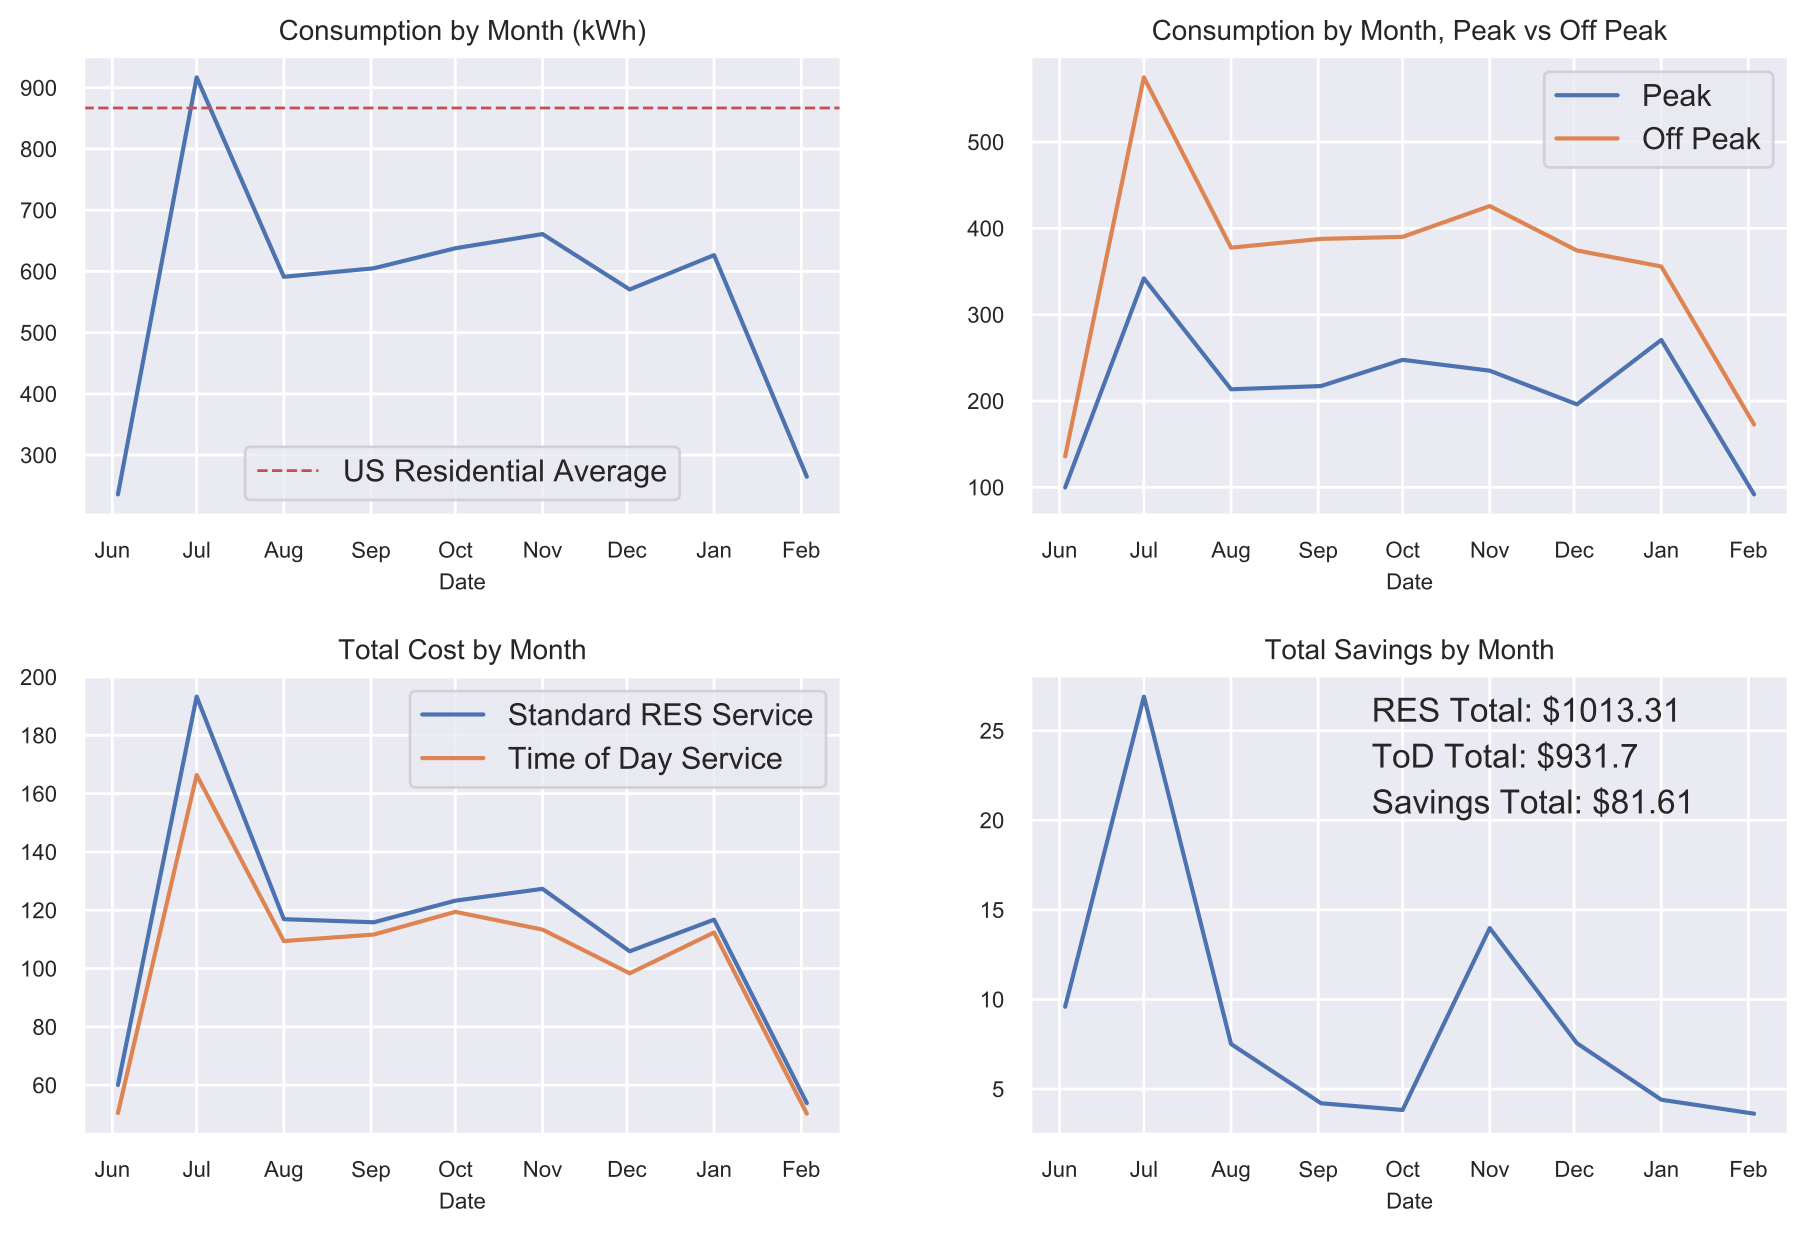
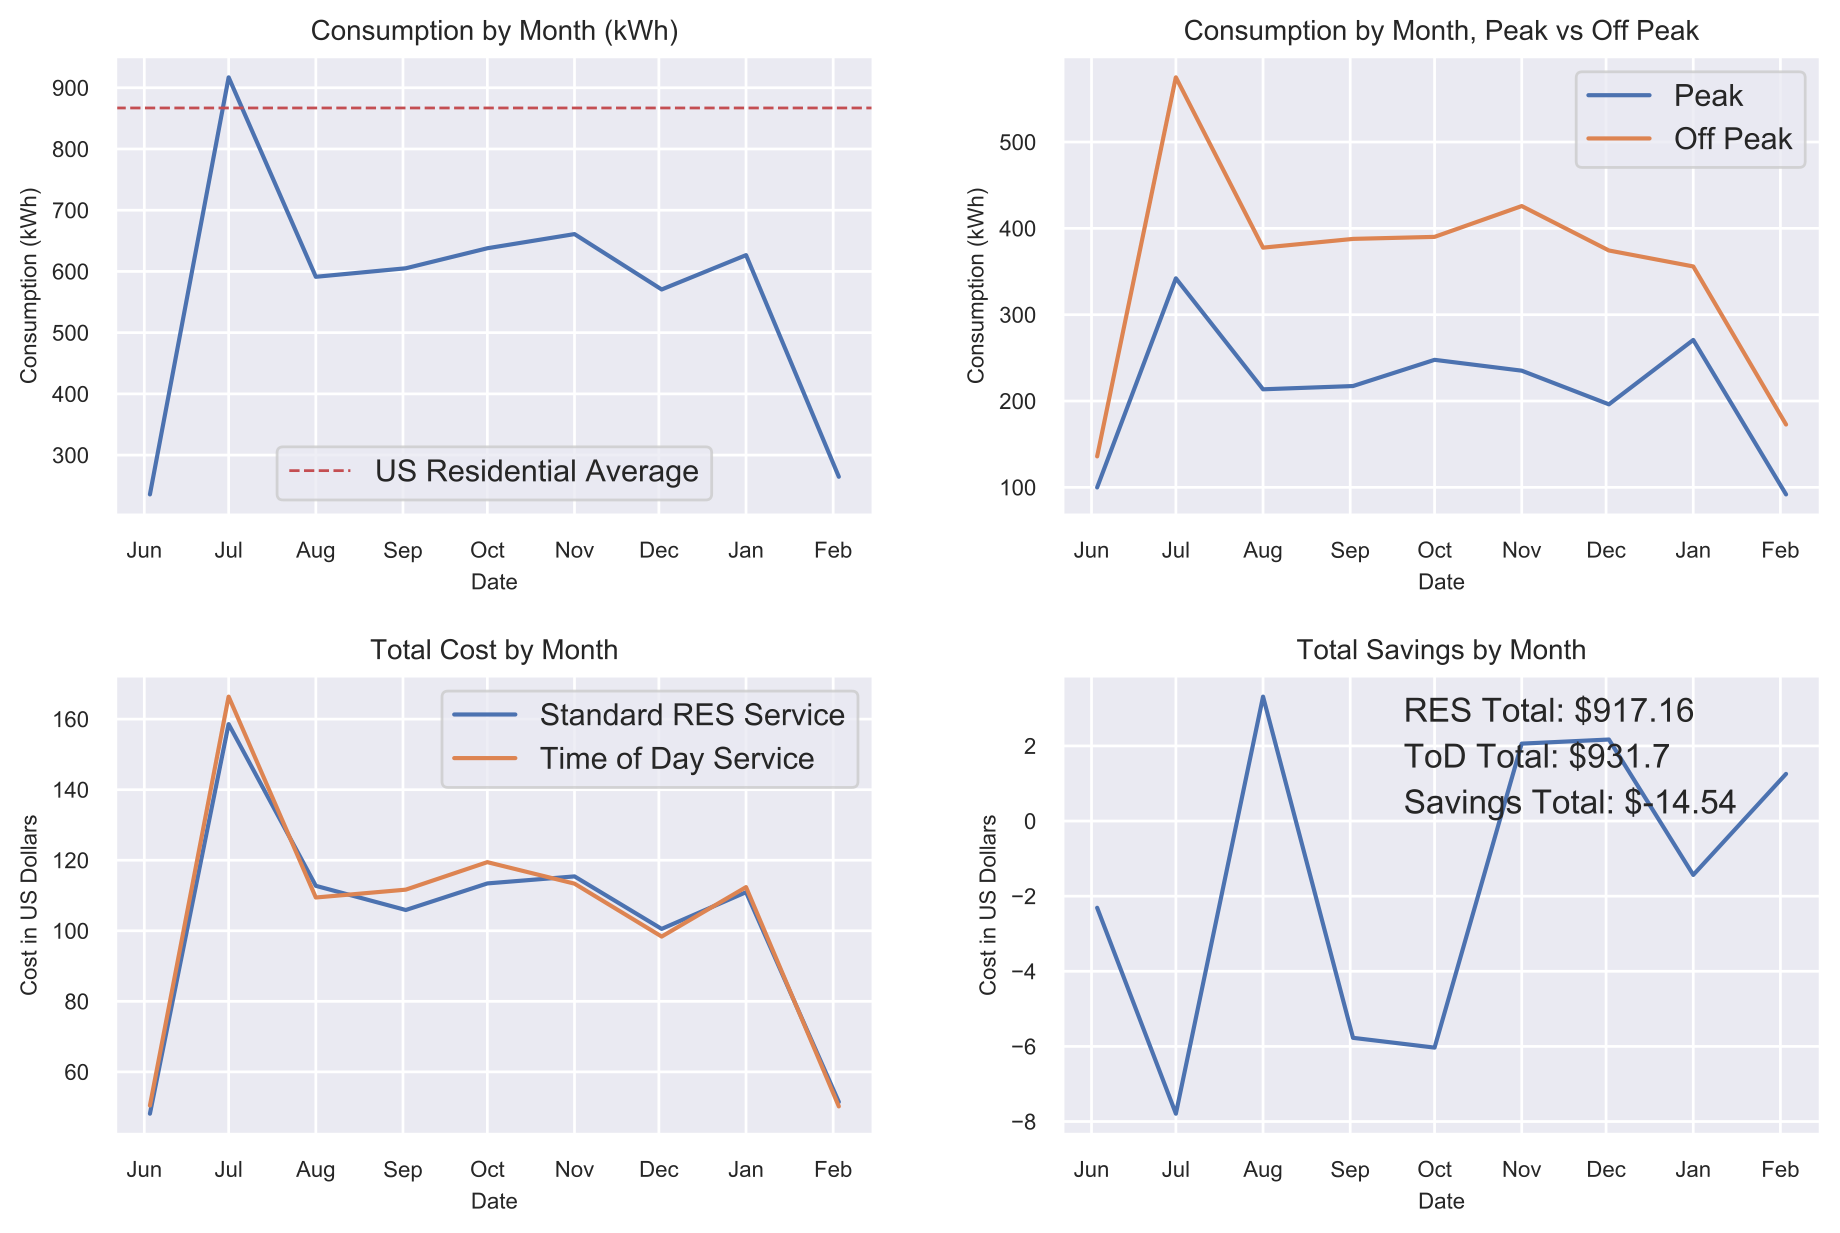
Fixed bug in code. Updated plots.

diff --git a/dte/dte.py b/dte/dte.py
@@ -144,8 +144,8 @@ def compute_RES_rate(data_raw):
     # Compute daily total consumption
     data = data_raw['Total'].resample('D').sum().to_frame()
 
-    data['Cost_CAP_17'] = data['Total'] * RES_CAP_RATE_17KWH
-    data['Cost_NON_CAP_17'] = data['Total'] * RES_NON_CAP_RATE_17KWH
+    data['Cost_CAP_17'] = RES_CUTOFF * RES_CAP_RATE_17KWH
+    data['Cost_NON_CAP_17'] = RES_CUTOFF * RES_NON_CAP_RATE_17KWH
 
     data['Cost_CAP_ADD'] = 0
     data['Cost_NON_CAP_ADD'] = 0
@@ -220,6 +220,7 @@ def dte_calculator(filename):
     # Plot 1 - Consumption
     axarr[0, 0].plot(kwh_monthly.index, kwh_monthly)
     axarr[0, 0].set_title('Consumption by Month (kWh)')
+    axarr[0, 0].set_ylabel('Consumption (kWh)')
     axarr[0, 0].axhline(US_AVERAGE, linewidth=1, color='r',
                         ls='--', label='US Residential Average')
     axarr[0, 0].legend()
@@ -230,6 +231,7 @@ def dte_calculator(filename):
     axarr[0, 1].plot(consumption_offpeak.index,
                      consumption_offpeak, label='Off Peak')
     axarr[0, 1].set_title('Consumption by Month, Peak vs Off Peak')
+    axarr[0, 1].set_ylabel('Consumption (kWh)')
     axarr[0, 1].legend()
     format_plots(axarr[0, 1])
 
@@ -239,12 +241,14 @@ def dte_calculator(filename):
     axarr[1, 0].plot(cost_monthly_ToD.index,
                      cost_monthly_ToD, label='Time of Day Service')
     axarr[1, 0].set_title('Total Cost by Month')
+    axarr[1, 0].set_ylabel('Cost in US Dollars')
     axarr[1, 0].legend()
     format_plots(axarr[1, 0])
 
     # Plot 4 - Savings
     axarr[1, 1].plot(cost_monthly_ToD.index, savings_monthly)
     axarr[1, 1].set_title('Total Savings by Month')
+    axarr[1, 1].set_ylabel('Cost in US Dollars')
 
     plt.text(0.45, 0.9, "RES Total: $" + str(res_total),
              transform=axarr[1, 1].transAxes)

diff --git a/README.md b/README.md
@@ -28,7 +28,7 @@ DTE Calculator is a Python-based utility to compare electric service plans based
 
 I was recently trying to compare two electric service plans from DTE Energy - the Residential Electric Service plan vs. the Time of Day plan. The RES is a flat-rate plan, while the ToD has specific rates based on the season and time of day - the more expensive peak rate applies for 11am-7pm on a weekday. However, other than publishing the rates ([link](https://newlook.dteenergy.com/wps/wcm/connect/23195474-a4d1-4d38-aa30-a4426fd3336b/WholeHouseRateOptions.pdf?MOD=AJPERES)), DTE does not provide a utility for determining whether or not switching to the ToD plan would actually save me money, in addition to requiring a 12-month commitment to stay on the plan.
 
-I decided to do my own analysis instead. DTE does provide a function on its website to generate an Energy Usage Report, which contains hours of energy usage data for the previous 13 months. By processing the data from my hourly usage, I then calculated my energy costs for the RES and ToD plans. As it turns out, I do stand to save money by switching to the ToD plan, even without making changes to my current behavior.
+I decided to do my own analysis instead. DTE does provide a function on its website to generate an Energy Usage Report, which contains energy usage data for the previous 13 months on a hourly basis. By processing the data from my hourly usage, I then calculated my energy costs for the RES and ToD plans. As it turns out, I will end up paying a little bit more on the ToD plan, without making changes to my current behavior.
 
 ![DTE Calculator](docs/doc.png?raw=true "DTE Calculator")
 
